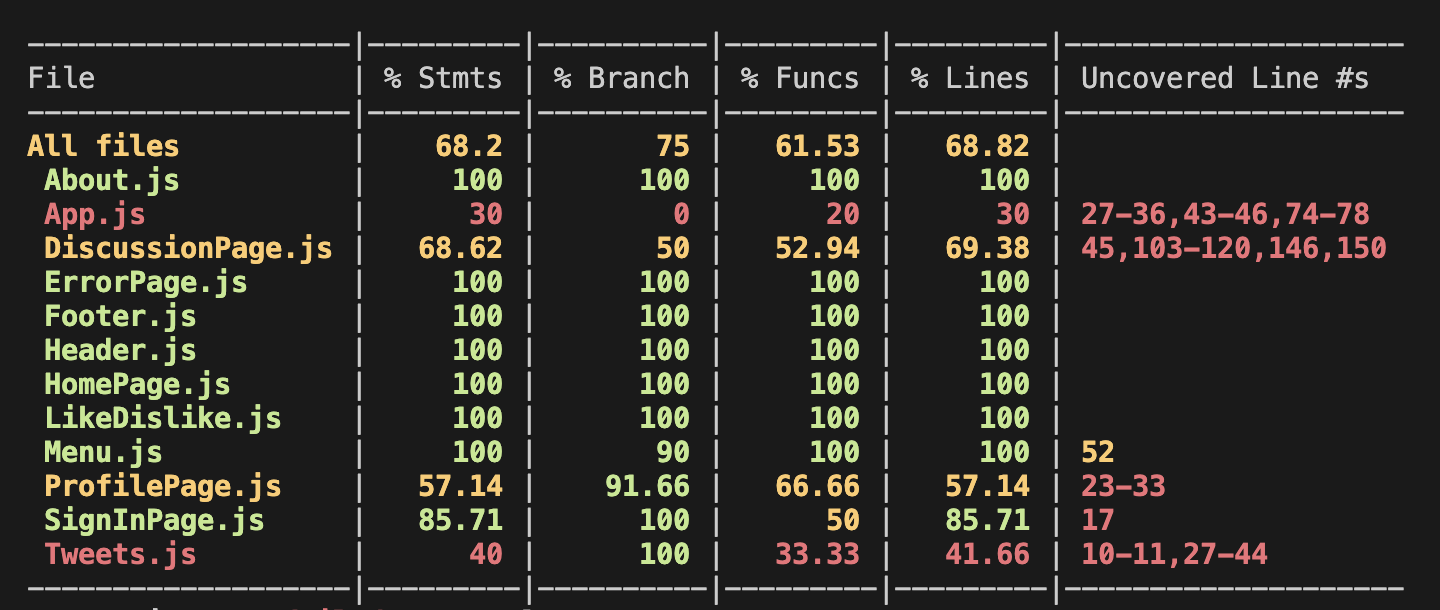
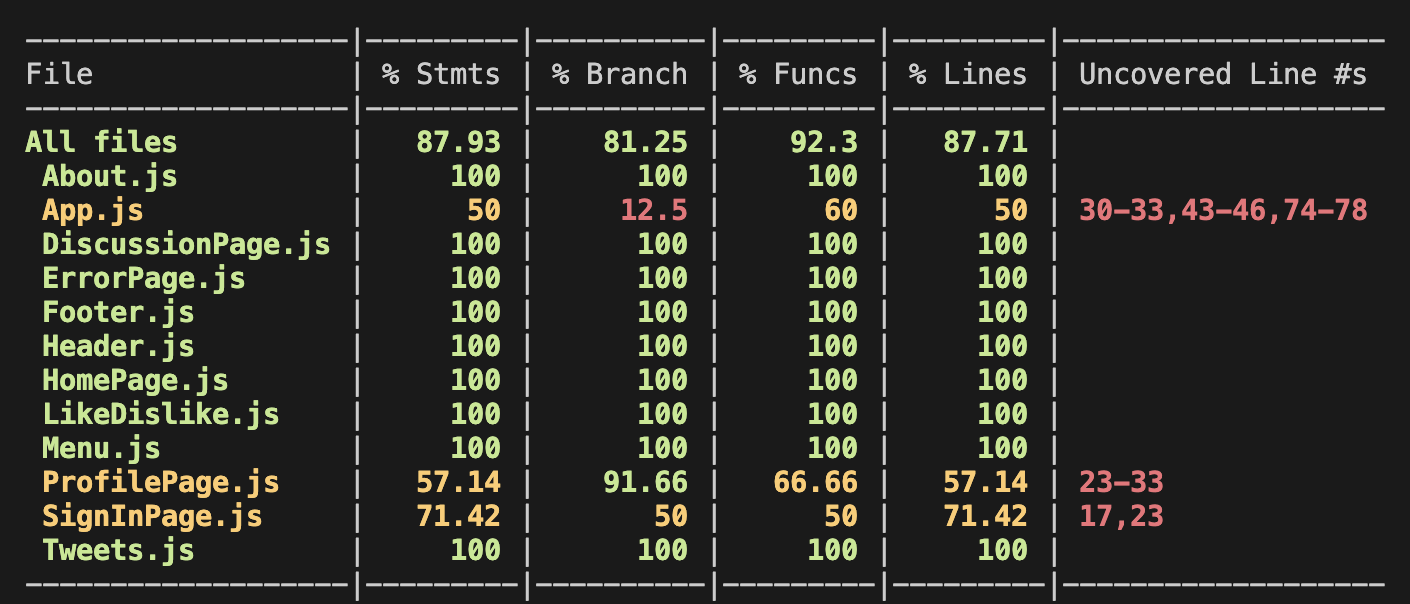
Discussion Page Tests Done

Changed region(s): [[0.0, 0.0596, 0.9986, 1.0]]

diff --git a/src/App.test.js b/src/App.test.js
@@ -1,14 +1,6 @@
-// import { getDatabase, connectDatabaseEmulator, child, ref, onValue } from "firebase/database";
-// import { initializeTestApp } from '@firebase/rules-unit-testing';
-// import * as admin from 'firebase-admin';
-
+import { render, screen, fireEvent, waitFor } from '@testing-library/react';
 import '@testing-library/jest-dom';
-// import { getByText, waitFor } from '@testing-library/react';
-
-import { render, screen, fireEvent } from '@testing-library/react';
 import userEvent from '@testing-library/user-event';
-import { getAuth, signOut } from 'firebase/auth'
-import MockDatabase from './setupTests';
 import { getDatabase, ref, set } from "firebase/database";
 
 import App from './components/App';
@@ -28,6 +20,7 @@ import LikeDislike from './components/LikeDislike';
 import { BrowserRouter, Router, MemoryRouter } from 'react-router-dom';
 import USERS from './data/users.json';
 import TWEETS from './data/tweets.json';
+import FBDATA from './data/firebase_data.json'
 
 
 const db = getDatabase();
@@ -44,11 +37,6 @@ const testUser2 = {
   userImg: '/img/null.png',
   userRole: 'Coder'
 }
-// const testdb = [
-//   { "userId": "User1", "userName": "Ashley Williams", "userImg": "/img/User1.jpg", "userRole": "System Administrator", "numPosts": 45, "totalPoints": 4586, "timestamp": 1320224640000, "topic": "ChatGPT is so cool!", "post": "Hey there, I just wanted to share how impressed I am with ChatGPT! As an administrator, I'm constantly looking for ways to streamline our workflow and improve our communication, and ChatGPT has been a game-changer. Its natural language processing and ability to generate human-like responses is truly amazing. I'm blown away by the way ChatGPT can understand and interpret complex questions and provide thoughtful answers. It has saved us so much time and effort, and has greatly enhanced our ability to serve our clients. Thank you, ChatGPT, for being such an innovative and valuable tool!"},
-//   { "userId": "User2", "userName": "Brandon Nguyen", "userImg": "/img/User2.jpg", "userRole": "Data Scientist", "numPosts": 450, "totalPoints": 1234, "timestamp": 1320162120000, "topic": "ChatGPT is so useful!", "post": "As a data scientist, I'm constantly exploring new ways to extract insights from data. ChatGPT has been an incredible resource in this regard. Its ability to process and analyze large volumes of text data has greatly expanded our capabilities in natural language processing and sentiment analysis. With ChatGPT, we've been able to quickly and accurately analyze customer feedback and social media conversations, gaining valuable insights into our clients' needs and preferences. It's been amazing to see how ChatGPT's advanced algorithms and machine learning capabilities can help us uncover patterns and trends that would have been nearly impossible to detect otherwise. I'm truly grateful for the contributions ChatGPT has made to our data science efforts, and I look forward to continuing to explore all the ways it can help us make better decisions and drive better outcomes."},
-//   { "userId": "User3", "userName": "Rachel Davis", "userImg": "/img/User3.jpg", "userRole": "Product Manager", "numPosts": 100, "totalPoints": 10000, "timestamp": 1320161040000, "topic": "AI is advancing for the better", "post": "As a product manager, I'm always on the lookout for ways to enhance our products and services and meet our customers' evolving needs. ChatGPT has been an incredible asset in this regard. Its natural language processing and machine learning capabilities have enabled us to create highly personalized and engaging user experiences. By integrating ChatGPT into our customer service and support channels, we've been able to improve our response times, increase customer satisfaction, and reduce overall support costs. Additionally, ChatGPT has allowed us to gain deeper insights into customer behavior and preferences, which has informed our product development and marketing efforts. I'm continually impressed by the flexibility and power of ChatGPT, and I'm excited to explore all the ways it can help us drive innovation and growth across our product portfolio."}
-// ]
 
 
 
@@ -61,10 +49,13 @@ describe('Integration: App', () => {
     window.URL.createObjectURL.mockReset();
   });
 
-
-  test('Renders Header/Footer', () => {
-    render(<App />, {wrapper: BrowserRouter});
+  test('Render Header', () => {
+    render(<Header/>)
     expect(screen.getByText('ChatGPT: A Brief Rendition'));
+  })
+
+  test('Render Footer', () => {
+    render(<Footer />);
     expect(screen.getByText('email@chatgpt.uw.edu'));
   })
 
@@ -88,7 +79,7 @@ describe('Integration: App', () => {
     expect(screen.getByText('Tweets'))
     expect(screen.getByText('Profile'))
     expect(screen.getByText('Sign Out'))
-    // screen.debug()
+
     userEvent.click(screen.getByText('Sign Out'))
   })
 
@@ -101,14 +92,14 @@ describe('Integration: App', () => {
 
   test('Menu Before sign in', async () => {
     // NOTE (PBT): This still does not work, but now it opens the menu.
-    // const menu = render(<Menu currentUser={{}} />, {wrapper: BrowserRouter})
-    // const button = menu.getByTestId('hamburger-menu');
-    // expect(button).toBeVisible();
-    // await userEvent.click(button);
+    const menu = render(<Menu currentUser={{}} />, {wrapper: BrowserRouter})
+    const button = menu.getByTestId('hamburger-menu');
+    expect(button).toBeVisible();
+    userEvent.click(button);
 
-    // const signInButton = menu.getByTestId('sign-in-link');
-    // expect(signInButton).toBeVisible();
-    // await userEvent.click(signInButton);
+    const signInButton = menu.getByTestId('sign-in-link');
+    expect(signInButton).toBeVisible();
+    userEvent.click(signInButton);
   })
 
   test('Renders Home page', () => {
@@ -126,46 +117,28 @@ describe('Integration: App', () => {
 
   })
 
-  test('Test Tweets filter button', () => {
-    render(
-      <MemoryRouter initialEntries={['/tweets']}>
-        <App />
-      </MemoryRouter>
-    );
-    const filterButton = screen.getByText('Filter Date: Descending');
-    expect(filterButton);
-    userEvent.click(filterButton);
-    expect(screen.getByText('Filter Date: Ascending'));
-    userEvent.click(filterButton);
-    expect(screen.getByText('Filter Date: Descending'));
-  })
-
-  test('Renders Tweet Page', () => {
-    render(<Tweets tweets={TWEETS}/>)
-    // NOTE (PBT): You should add an expect, even if the find function would fail.
-    expect(screen.getByText('For the past two months,')).toBeInTheDocument()
-    // screen.debug()
-  })
+  
 
   test('Renders Error Page', () => {
     render(<ErrorPage />, {wrapper: BrowserRouter})
     expect(screen.getByText('Hm... Seems like the page was not found'))
   })
 
+  // NOTE: This still does not work due to firebase mock authentication problems.
   test('Renders Sign In page', () => {
     // render(
-    //   <MemoryRouter initialEntries={['/signin']}>
-    //     <App currentUser={testUser}/>
-    //   </MemoryRouter>
-    // );
-    const emptyUserID = {
-      userId: null
-    }
-    render(<SignInPage currentUser={emptyUserID}/>)
+      //   <MemoryRouter initialEntries={['/signin']}>
+      //     <App currentUser={emptyUserID}/>
+      //   </MemoryRouter>
+      // );
+
+    const loginUser = jest.fn()
+    const emptyUserID = { "userId": null, "userName": "Annonymous", "userImg": "/img/null.png", "userRole": null, "numPosts": null, "totalPoints": null}
+    render(<SignInPage currentUser={emptyUserID} loginCallback={loginUser}/>)
     expect(screen.getByText('Please sign in to view content'));
   })
   
-  //crashes here
+  // NOTE: Testing for page redirection crashes tests.
   // test('New Render Sign in Page', () => {
   //   render(<SignInPage currentUser={testUser} />, {wrapper: BrowserRouter})
   //   expect(screen.getByText('Topic: ChatGPT is so cool!'));
@@ -176,12 +149,15 @@ describe('Integration: App', () => {
     expect(screen.getByText('Personal Information'));
   })
 
+  //Note: website's fileupload does not work
   test('Profile Page upload picture', () => {
     const profile = render(<ProfilePage currentUser={testUser} />, {wrapper: BrowserRouter});
     const imgUpload = profile.container.querySelector('#imageUploadInput');
+    const image = screen.getAllByAltText('Test User avatar')
     const file = new File(['test-image'], 'user.png', { type: 'image/png' });
     userEvent.upload(imgUpload, file);
     expect(file.name).toBe('user.png');
+    // expect(image.getAttribute('src')).not.toBeNull();
   })
   // NOTE: Test doesn't work.
   // test('Profile Page submit picture', () => {
@@ -256,7 +232,6 @@ describe('Test Discussion Posts Functionality', () => {
     });
 
     render(<DiscussionPage currentUser={testUser}/>)
-    // screen.debug()
     expect(screen.getByText('Topic: ChatGPT is so cool!')).toBeInTheDocument()
     expect(screen.getByText('Like')).toBeInTheDocument();
     const likeButton = screen.getByRole('button', {name: `Like 100`});
@@ -288,7 +263,6 @@ describe('Test Discussion Posts Functionality', () => {
     });
 
     render(<DiscussionPage currentUser={testUser}/>)
-    // screen.debug()
     expect(screen.getByText('Topic: ChatGPT is so cool!')).toBeInTheDocument()
     expect(screen.getByText('Like')).toBeInTheDocument();
     const dislikeButton = screen.getByRole('button', {name: `Dislike 0`});
@@ -320,7 +294,6 @@ describe('Test Discussion Posts Functionality', () => {
     });
 
     render(<DiscussionPage currentUser={testUser}/>)
-    // screen.debug()
     expect(screen.getByText('Topic: ChatGPT is so cool!')).toBeInTheDocument()
     expect(screen.getByText('Like')).toBeInTheDocument();
     const likeButton = screen.getByRole('button', {name: `Like 100`});
@@ -360,7 +333,7 @@ describe('Test Discussion Posts Functionality', () => {
   test('Create new post after loaded in a post', () => {
     set(ref(db), {
       discussion_log: {
-        0: {
+        "one": {
           dislikes: 0,
           likes: 100,
           numPosts: 45,
@@ -390,40 +363,66 @@ describe('Test Discussion Posts Functionality', () => {
 
   // Expect an error to be thrown when both are empty
   test('Create new post with empty topic and post', () => {
-  //   set(ref(db), {
-  //     discussion_log: {
-  //       0: {
-  //         dislikes: 0,
-  //         likes: 100,
-  //         numPosts: 45,
-  //         post: "Hey there, I just wanted to share how impressed I am with ChatGPT! As an administrator, I'm constantly looking for ways to streamline our workflow and improve our communication, and ChatGPT has been a game-changer. Its natural language processing and ability to generate human-like responses is truly amazing. I'm blown away by the way ChatGPT can understand and interpret complex questions and provide thoughtful answers. It has saved us so much time and effort, and has greatly enhanced our ability to serve our clients. Thank you, ChatGPT, for being such an innovative and valuable tool!",
-  //         timestamp: 1320224640000,
-  //         topic: "ChatGPT is so cool!",
-  //         totalPoints: 4586,
-  //         userId: "User1",
-  //         userImg: "/img/User1.jpg",
-  //         userName: "Ashley Williams",
-  //         userRole: "System Administrator"
-  //       }
-  //     } 
-  //   });
-    
-  //   render(<DiscussionPage currentUser={testUser}/>, {wrapper: BrowserRouter});
-  //   const submitButton = screen.getByText('Submit');
-  //   userEvent.click(submitButton);
-  //   expect(screen.getByText('Topic:')).toBeInTheDocument();
-  //   // expect(screen.getByText('Test post field')).toBeInTheDocument();
+    render(<DiscussionPage currentUser={testUser}/>, {wrapper: BrowserRouter});
+    const submitButton = screen.getByText('Submit');
+    userEvent.click(submitButton);
+    expect(screen.queryByText('Topic:')).toBeNull();
   })
   
   //   Expect: Post will still go through without topic
-  test('Create new post with empty topic', () => {
-//     render(<DiscussionPage currentUser={testUser}/>, {wrapper: BrowserRouter});
-//     const postText = screen.getByPlaceholderText('Type a new post');
-//     const submitButton = screen.getByText('Submit');
-//     userEvent.type(postText, 'There is no topic in this post!');
-//     userEvent.click(submitButton);
-//     expect(screen.getByText('Topic:')).toBeInTheDocument();
-//     expect(screen.getByText('There is no topic in this post!')).toBeInTheDocument();
+  test('Create new post with empty topic', () => {    
+    render(<DiscussionPage currentUser={testUser}/>, {wrapper: BrowserRouter});
+    const postText = screen.getByPlaceholderText('Type a new post');
+    const submitButton = screen.getByText('Submit');
+    userEvent.type(postText, 'There is no topic in this post!');
+    userEvent.click(submitButton);
+    expect(screen.queryByText('There is no topic in this post!')).toBeNull();
+  })
+
+  test('Create new post with empty post', () => {    
+    render(<DiscussionPage currentUser={testUser}/>, {wrapper: BrowserRouter});
+    const topicText = screen.getByPlaceholderText('Type a topic');
+    const submitButton = screen.getByText('Submit');
+    userEvent.type(topicText, 'This is an empty post!');
+    userEvent.click(submitButton);
+    expect(screen.queryByText('This is an empty post!')).toBeNull();
+  })
+
+  test('Create new post (100 words)', () => {
+    render(<DiscussionPage currentUser={testUser}/>, {wrapper: BrowserRouter});
+    const topicText = screen.getByPlaceholderText('Type a topic');
+    const postText = screen.getByPlaceholderText('Type a new post');
+    const submitButton = screen.getByText('Submit');
+    const post = 'Lorem ipsum dolor sit amet, consectetuer adipiscing elit. Aenean commodo ligula eget dolor. Aenean massa. Cum sociis natoque penatibus et magnis dis parturient montes, nascetur ridiculus mus. Donec quam felis, ultricies nec, pellentesque eu, pretium quis, sem. Nulla consequat massa quis enim. Donec pede justo, fringilla vel, aliquet nec, vulputate eget, arcu. In enim justo, rhoncus ut, imperdiet a, venenatis vitae, justo. Nullam dictum felis eu pede mollis pretium. Integer tincidunt. Cras dapibus. Vivamus elementum semper nisi. Aenean vulputate eleifend tellus. Aenean leo ligula, porttitor eu, consequat vitae, eleifend ac, enim. Aliquam lorem ante, dapibus in, viverra quis, feugiat a,'
+    userEvent.type(topicText, 'Test Topic field');
+    userEvent.type(postText, post);
+    userEvent.click(submitButton);
+    expect(screen.getByText('Topic: Test Topic field')).toBeInTheDocument();
+    expect(screen.getByText(post)).toBeInTheDocument();
+  })
+
+  test('Create new post (2000 characters)', () => {
+    render(<DiscussionPage currentUser={testUser}/>, {wrapper: BrowserRouter});
+    const topicText = screen.getByPlaceholderText('Type a topic');
+    const postText = screen.getByPlaceholderText('Type a new post');
+    const submitButton = screen.getByText('Submit');
+    const longPost = 'Lorem ipsum dolor sit amet, consectetuer adipiscing elit. Aenean commodo ligula eget dolor. Aenean massa. Cum sociis natoque penatibus et magnis dis parturient montes, nascetur ridiculus mus. Donec quam felis, ultricies nec, pellentesque eu, pretium quis, sem. Nulla consequat massa quis enim. Donec pede justo, fringilla vel, aliquet nec, vulputate eget, arcu. In enim justo, rhoncus ut, imperdiet a, venenatis vitae, justo. Nullam dictum felis eu pede mollis pretium. Integer tincidunt. Cras dapibus. Vivamus elementum semper nisi. Aenean vulputate eleifend tellus. Aenean leo ligula, porttitor eu, consequat vitae, eleifend ac, enim. Aliquam lorem ante, dapibus in, viverra quis, feugiat a, tellus. Phasellus viverra nulla ut metus varius laoreet. Quisque rutrum. Aenean imperdiet. Etiam ultricies nisi vel augue. Curabitur ullamcorper ultricies nisi. Nam eget dui. Etiam rhoncus. Maecenas tempus, tellus eget condimentum rhoncus, sem quam semper libero, sit amet adipiscing sem neque sed ipsum. Nam quam nunc, blandit vel, luctus pulvinar, hendrerit id, lorem. Maecenas nec odio et ante tincidunt tempus. Donec vitae sapien ut libero venenatis faucibus. Nullam quis ante. Etiam sit amet orci eget eros faucibus tincidunt. Duis leo. Sed fringilla mauris sit amet nibh. Donec sodales sagittis magna. Sed consequat, leo eget bibendum sodales, augue velit cursus nunc, quis gravida magna mi a libero. Fusce vulputate eleifend sapien. Vestibulum purus quam, scelerisque ut, mollis sed, nonummy id, metus. Nullam accumsan lorem in dui. Cras ultricies mi eu turpis hendrerit fringilla. Vestibulum ante ipsum primis in faucibus orci luctus et ultrices posuere cubilia Curae; In ac dui quis mi consectetuer lacinia. Nam pretium turpis et arcu. Duis arcu tortor, suscipit eget, imperdiet nec, imperdiet iaculis, ipsum. Sed aliquam ultrices mauris. Integer ante arcu, accumsan a, consectetuer eget, posuere ut, mauris. Praesent adipiscing. Phasellus ullamcorper ipsum rutrum nunc. Nunc nonummy metus. Vestib';
+    userEvent.type(topicText, 'Test Topic field');
+    userEvent.type(postText, longPost);
+    userEvent.click(submitButton);
+    expect(screen.getByText('Topic: Test Topic field')).toBeInTheDocument();
+    expect(screen.getByText(longPost)).toBeInTheDocument();
+  })
+
+  test('Render Discussion posts from JSON', () => {
+    set(ref(db), {discussion_log: FBDATA.discussion_log})
+    render(<DiscussionPage currentUser={testUser}/>, {wrapper: BrowserRouter});
+    expect(screen.getByText('Topic: ChatGPT is so cool!')).toBeInTheDocument();
+    expect(screen.getByText('Topic: ChatGPT is so useful!')).toBeInTheDocument();
+    expect(screen.getByText('Topic: AI is advancing for the better')).toBeInTheDocument();
+    expect(screen.getByText('Topic: ChatGPT IS AWESOME!')).toBeInTheDocument();
+    expect(screen.getByText('Topic: SO cool')).toBeInTheDocument();
+    expect(screen.getByText('Topic: PRO/CONS of ChatGPT')).toBeInTheDocument();
   })
 
   test('Like/Dislike Buttons Interactivity', async() => {
@@ -466,9 +465,28 @@ describe('Test Discussion Posts Functionality', () => {
 })
 
 describe('Testing Tweets Page', () => {
-  // test('Render all Tweets', () => {
-  //   const setTweets = jest.fn();
-  //   const setDescending = jest.fn();
-  //   <Tweets tweets={db.tweets} setTweets={setTweets} setDescending={setDescending} />
-  // })
+  beforeEach(() => {
+    set(ref(db), null);
+  })
+  
+  test('Test Tweets filter button', () => {
+    render(<Tweets/>)
+    const filterButton = screen.getByText('Filter Date: Descending');
+    expect(filterButton);
+    userEvent.click(filterButton);
+    expect(screen.getByText('Filter Date: Ascending'));
+    userEvent.click(filterButton);
+    expect(screen.getByText('Filter Date: Descending'));
+  })
+
+  // Note: Tests only shows Tweet containers and does not render the Tweets.
+  test('Renders Tweet Page', async () => {
+    set(ref(db), {tweets: TWEETS});
+    render(<Tweets/>, {wrapper: BrowserRouter})
+    // // NOTE (PBT): You should add an expect, even if the find function would fail.
+    expect(screen.getByText('Here are five tips that can help you make the best use of #ChatGPT.')).toBeInTheDocument()
+    // await waitFor(() => {
+    //   expect(screen.getByText('Here are five tips that can help you make the best use of #ChatGPT.')).toBeInTheDocument()
+    // })
+  })
 })

diff --git a/src/components/DiscussionPage.js b/src/components/DiscussionPage.js
@@ -134,12 +134,13 @@ export default function DiscussionPage(props) {
             "likes": 0,
             "dislikes": 0
         }
-
-        const db = getDatabase();
-        const discussions = ref(db, 'discussion_log');
-        const updateDiscussion = [...discussionPosts, newPost];
-        setDiscussionPosts(updateDiscussion);
-        firebasePush(discussions, newPost);
+        if (newPost.post !== undefined && newPost.topic !== undefined) {
+            const db = getDatabase();
+            const discussions = ref(db, 'discussion_log');
+            const updateDiscussion = [...discussionPosts, newPost];
+            setDiscussionPosts(updateDiscussion);
+            firebasePush(discussions, newPost);
+        }
     }
 
     const handleLikePost = (post) => {

diff --git a/README.md b/README.md
@@ -19,8 +19,8 @@ I would analyze the architectural quality of the discussion posts page write uni
 
 ## Checkpoint 3: Testing
 
-I am currently working on debugging the Firebase Emulator Suite, which is necessary for testing the database component of my application. Here is the current test coverage report.
+I am writing automated tests for my DiscussionPage component. Here is the current test coverage report.
 
 ![Checkpoint 3 Test Coverage](./images/CurrentTestCoverage.png)
 
-To execute my tests, please run `npm test App.test.js -- --coverage --collectCoverageFrom='src/components/*.js'`.
+To execute my tests, please run in terminal `npm test -- --coverage`.
